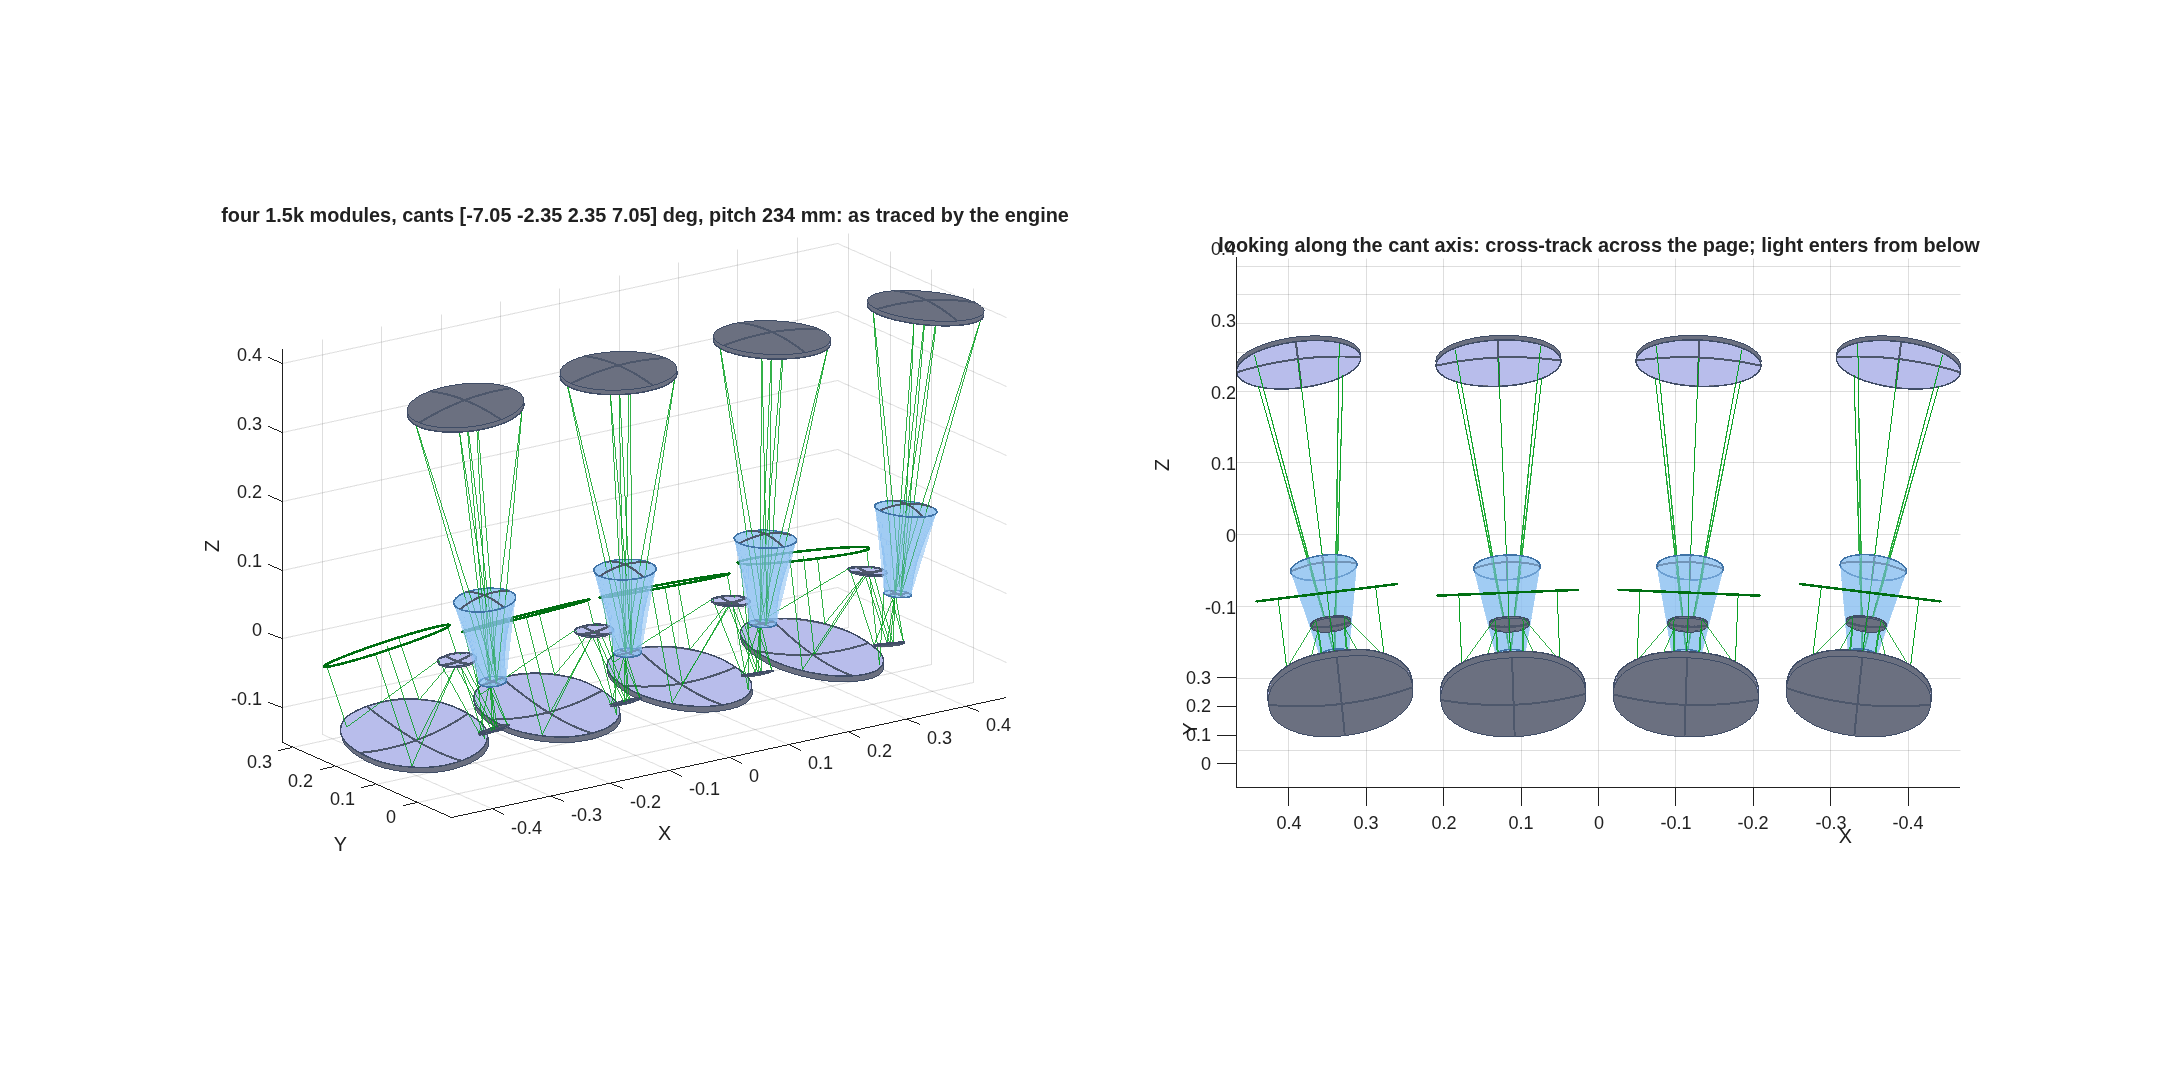
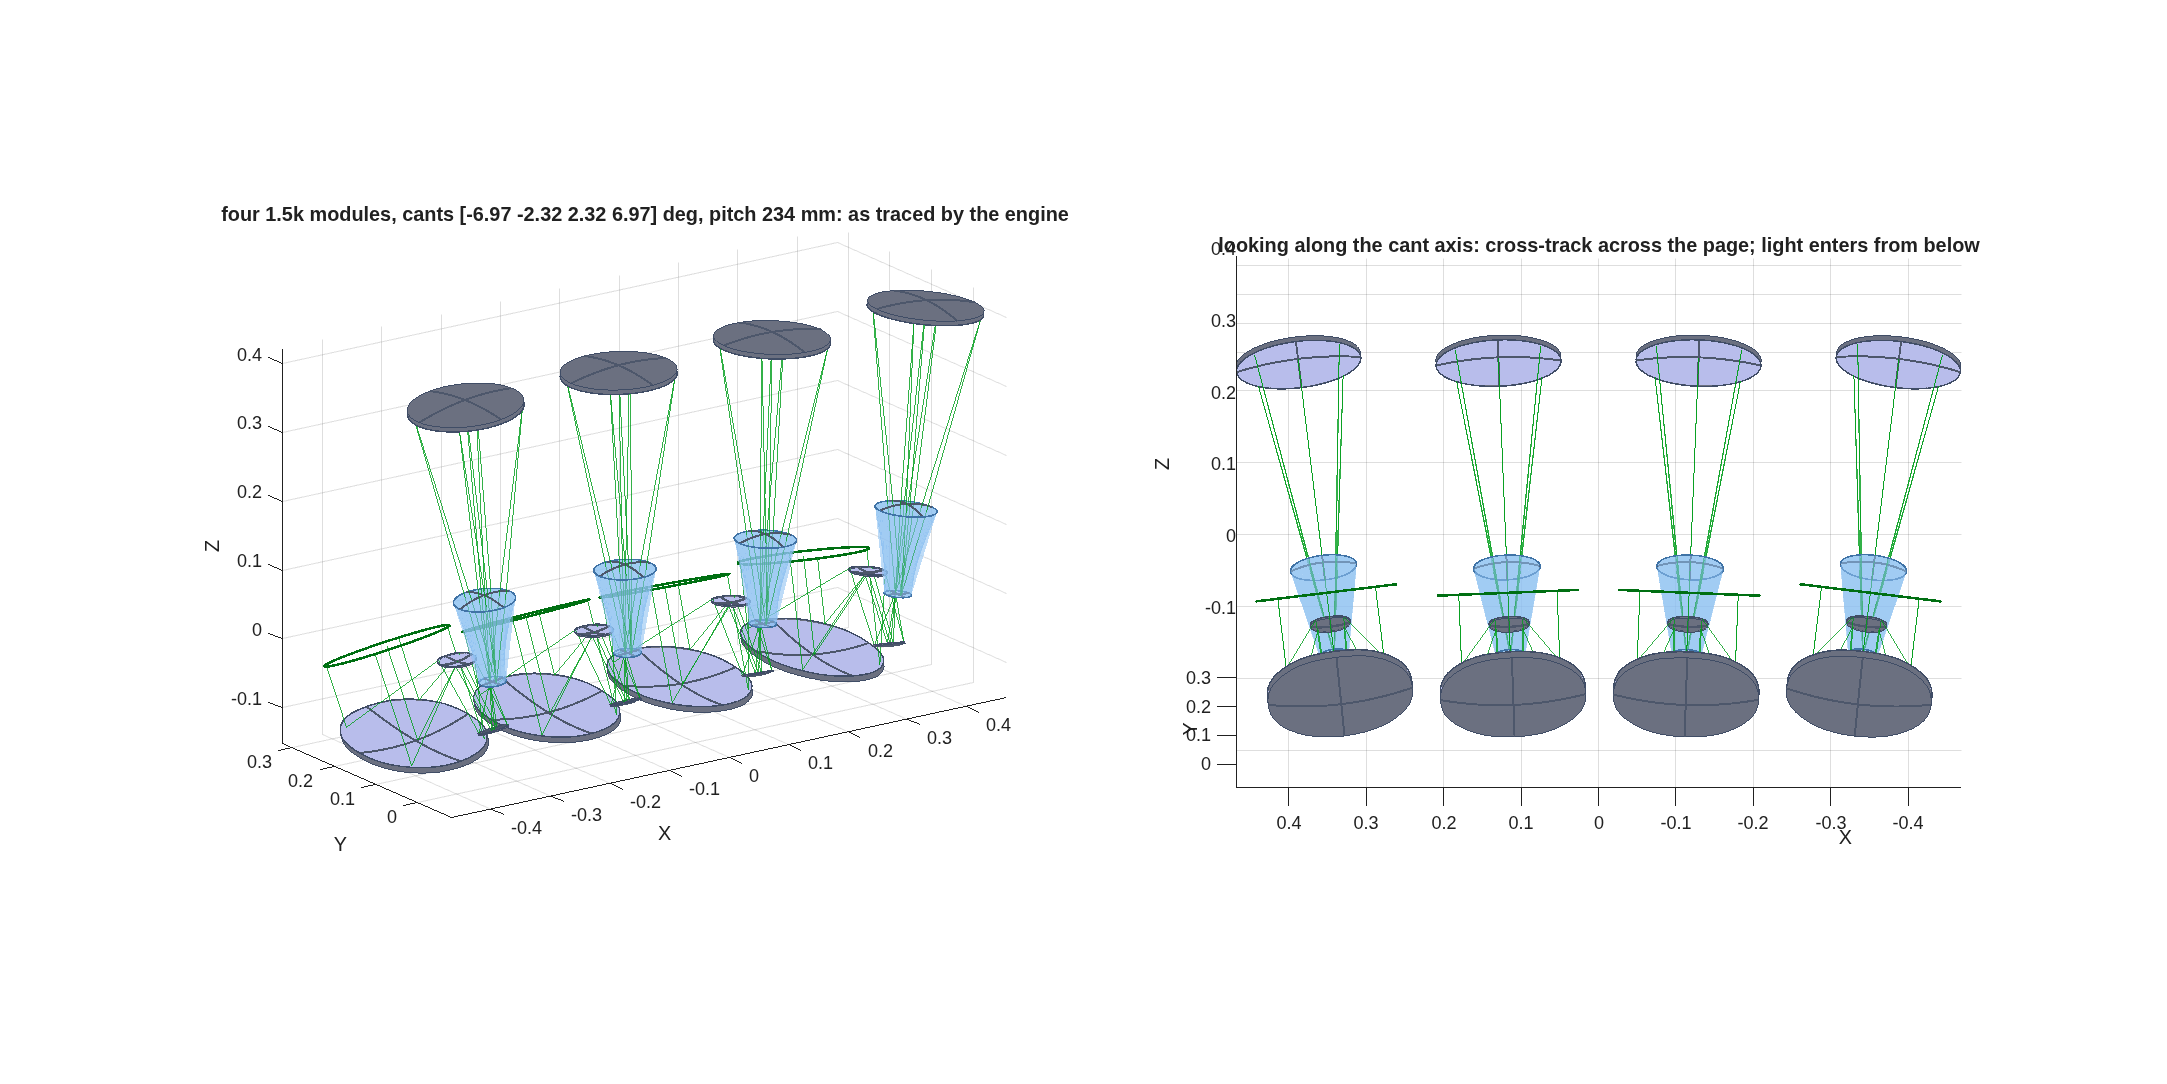
dyson5_block4: cants derived from the admitted strip for a 10-px overlap (abutting at 4.7 deg leaves an 8-px gap); the swath figure -- strips on the ground with the overlaps and the ground scale, the sweep, the four 1500 x 500 focal planes with the engine's slit images per wavelength

Changed region(s): [[0.1237, 0.1827, 0.4947, 0.2131]]

diff --git a/mmacos/challenges/dyson5/dyson5_block4.m b/mmacos/challenges/dyson5/dyson5_block4.m
@@ -14,7 +14,10 @@ function S = dyson5_block4(deck, opts)
 %   no structure, detector, electronics or baffles -- stated on the record.
     arguments
         deck (1,:) char = 'dyson5_t5f_GM_1k5_bAs_e2e.in'
-        opts.cant_deg (1,:) double = [-7.05 -2.35 2.35 7.05]   % each module's cross-track pointing (4 x 4.7 deg strips abutting)
+        opts.cant_deg (1,:) double = []                         % each module's cross-track pointing; [] = four strips abutting with overlap_px of overlap
+        opts.overlap_px (1,1) double = 10                       % pixels of overlap between neighbouring strips when the cants are derived
+        opts.npix (1,1) double = 1500                           % cross-track pixels per module
+        opts.alt_m (1,1) double = 550e3                         % for the ground scale on the swath figure
         opts.pitch_m (1,1) double = NaN
         opts.gap_m (1,1) double = 0.020                         % body-to-body gap between neighbours when the pitch is derived
         opts.margin_ap_m (1,1) double = 0.005                   % aperture margin on a footprint (the clearance gate's)
@@ -34,6 +37,14 @@ function S = dyson5_block4(deck, opts)
     p0 = vec_(txt, 'ChfRayPos');  ap = vec_(txt, 'Aperture');  Dap = ap(1);
     xhat = [1; 0; 0];                                          % the slit / cross-track direction of the e2e deck (the strip's x)
     a = cross(xhat, d);  a = a/norm(a);                        % the cant axis: normal to cross-track and the line of sight
+    % the strip each module admits, from the t5f record of the same deck (admit_half_rad); cants derived so the strips overlap
+    rec = regexprep(deck, '_e2e\.in$', '.mat');  ta = NaN;
+    if isfile(rec), L = load(rec);  if isfield(L, 'S') && isfield(L.S, 'admit_half_rad'), ta = L.S.admit_half_rad*180/pi; end, end
+    assert(~isnan(ta), 'dyson5 block4: no t5f record beside %s (admit_half_rad)', deck);
+    ppd = opts.npix/(2*ta);                                     % pixels per degree across the track
+    if isempty(opts.cant_deg)
+        cp = 2*ta - opts.overlap_px/ppd;  nM0 = 4;  opts.cant_deg = ((1:nM0) - (nM0 + 1)/2)*cp;
+    end
     nM = numel(opts.cant_deg);
     macos.init(opts.model);
     % ---- the module as traced: per-element footprint centres and radii from the engine's hits
@@ -93,18 +104,69 @@ function S = dyson5_block4(deck, opts)
         macos.view_rx('ax', ax2, 'nrings', 1, 'nspokes', 4, 'labels', false, 'title', '', 'view', [az el]);
     end
     for ax = [ax1 ax2], axis(ax, 'equal');  axis(ax, 'tight');  grid(ax, 'on'); end
-    title(ax1, sprintf('four 1.5k modules, cants %s deg, pitch %.0f mm: as traced by the engine', mat2str(opts.cant_deg), pitch*1e3), 'Interpreter', 'none');
+    title(ax1, sprintf('four 1.5k modules, cants %s deg, pitch %.0f mm: as traced by the engine', mat2str(round(opts.cant_deg, 2)), pitch*1e3), 'Interpreter', 'none');
     title(ax2, 'looking along the cant axis: cross-track across the page; light enters from below', 'Interpreter', 'none');
     out = fullfile(here, [opts.tag '_views.png']);  print(f, out, '-dpng', '-r130');  close(f);
     cellfun(@delete, tmp);
+    % ---- the swath: four strips across the track, their overlaps, the ground scale
+    f2 = figure('Visible', 'off', 'Position', [40 40 1400 760], 'Color', 'w');
+    axs = subplot(2, 1, 1, 'Parent', f2);  hold(axs, 'on');  axd = subplot(2, 1, 2, 'Parent', f2);  hold(axd, 'on');
+    cols = lines(nM);  edges = zeros(nM, 2);
+    for k = 1:nM
+        th = opts.cant_deg(k);  edges(k, :) = [th - ta, th + ta];
+        patch(axs, [th-ta th+ta th+ta th-ta], [0 0 1 1] + (k - 1)*0, cols(k, :), 'FaceAlpha', 0.25, 'EdgeColor', cols(k, :), 'LineWidth', 1.2);
+        text(axs, th, 0.5, sprintf('module %d\n%d px\n%+.3f to %+.3f deg', k, opts.npix, th - ta, th + ta), 'HorizontalAlignment', 'center', 'FontSize', 10);
+    end
+    ovl = zeros(1, nM - 1);
+    for k = 1:nM - 1
+        o = edges(k, 2) - edges(k+1, 1);  ovl(k) = o*ppd;
+        patch(axs, [edges(k+1, 1) edges(k, 2) edges(k, 2) edges(k+1, 1)], [0 0 1 1], [0.2 0.2 0.2], 'FaceAlpha', 0.6, 'EdgeColor', 'none');
+        text(axs, (edges(k, 2) + edges(k+1, 1))/2, 1.08, sprintf('%.0f px', ovl(k)), 'HorizontalAlignment', 'center', 'FontSize', 9);
+    end
+    tot = edges(end, 2) - edges(1, 1);  upx = nM*opts.npix - sum(ovl);
+    xlabel(axs, 'cross-track angle (deg)');  set(axs, 'YTick', []);  ylim(axs, [-0.35 1.25]);  xlim(axs, [edges(1, 1) - 0.3, edges(end, 2) + 0.3]);
+    gk = @(th) 2*opts.alt_m*tand(th)/2e3;   % km on the ground from nadir
+    for th = ceil(edges(1,1)):floor(edges(end,2))
+        text(axs, th, -0.18, sprintf('%.0f km', gk(th)), 'HorizontalAlignment', 'center', 'FontSize', 8, 'Color', [0.3 0.3 0.3]);
+    end
+    ylim(axs, [-0.25 1.25]);  axs.YColor = 'none';  axs.Box = 'off';   % (box is the envelope variable)
+    title(axs, {sprintf('the four strips on the ground: %d px each over %.3f deg (the slit admits +-%.3f deg), %.0f px of overlap at each join; along-track offset between strips 0 (the four lines of sight lie in one cross-track plane)', ...
+          opts.npix, 2*ta, ta, mean(ovl)), sprintf('ground distance from nadir at %.0f km altitude (gray); swath %.2f deg = %.0f km, %d unique pixels, %.1f m per pixel at nadir', ...
+          opts.alt_m/1e3, tot, 2*opts.alt_m*tand(tot/2)/1e3, round(upx), 2*opts.alt_m*tand(ta)/opts.npix)}, 'FontSize', 10, 'Interpreter', 'none');
+    % the sweep: one ground line per frame, pushed along the track by the spacecraft's motion
+    annotation(f2, 'arrow', [0.05 0.05], [0.64 0.84], 'Color', [0.2 0.2 0.2], 'LineWidth', 1.5);
+    annotation(f2, 'textbox', [0.003 0.46 0.10 0.16], 'String', {'along-track sweep', '(spacecraft motion);', 'each frame is one', 'ground line'}, ...
+               'EdgeColor', 'none', 'FontSize', 8, 'HorizontalAlignment', 'center', 'VerticalAlignment', 'top');
+    % ---- the focal planes: each module's 1500 x 500 px detector under its strip, the spectral axis from the engine's dispersion
+    RE = L.S.e2e;  im = ceil(numel(RE.xs)/2);  V = RE.V(im, :);  U = RE.U(:, ceil(numel(RE.lams)/2));
+    [~, i380] = min(RE.lams);  [~, i2500] = max(RE.lams);  nsp = 500;
+    vlo = min(V);  vhi = max(V);  sgn = sign(V(i2500) - V(i380));                 % +1: long wavelengths toward +v
+    for k = 1:nM
+        x0 = edges(k, 1);  x1 = edges(k, 2);
+        patch(axd, [x0 x1 x1 x0], [-nsp/2 -nsp/2 nsp/2 nsp/2], cols(k, :), 'FaceAlpha', 0.15, 'EdgeColor', cols(k, :), 'LineWidth', 1.2);
+        for j = 1:numel(RE.lams)         % the engine's centroid rows (the slit's image per wavelength), smile exaggerated by nothing: as scored
+            plot(axd, linspace(x0, x1, numel(RE.xs)), RE.V(:, j) - mean(V)*0, '-', 'Color', cols(k, :)*0.6, 'LineWidth', 0.8);
+        end
+        text(axd, (x0 + x1)/2, 0, sprintf('module %d detector\n%d spatial x %d spectral px', k, opts.npix, nsp), 'HorizontalAlignment', 'center', 'FontSize', 9, 'BackgroundColor', 'w');
+    end
+    text(axd, edges(1, 1), V(i380), sprintf(' %.0f nm', RE.lams(i380)*1e9), 'HorizontalAlignment', 'left', 'VerticalAlignment', 'bottom', 'FontSize', 9);
+    text(axd, edges(1, 1), V(i2500), sprintf(' %.0f nm', RE.lams(i2500)*1e9), 'HorizontalAlignment', 'left', 'VerticalAlignment', 'top', 'FontSize', 9);
+    text(axd, edges(end, 2), V(i380), sprintf('%.0f nm ', RE.lams(i380)*1e9), 'HorizontalAlignment', 'right', 'VerticalAlignment', 'bottom', 'FontSize', 9);
+    text(axd, edges(end, 2), V(i2500), sprintf('%.0f nm ', RE.lams(i2500)*1e9), 'HorizontalAlignment', 'right', 'VerticalAlignment', 'top', 'FontSize', 9);
+    ylabel(axd, 'spectral pixel (v)');  xlabel(axd, 'cross-track angle of the slit image (deg); spatial pixel u runs the other way (the image is inverted)');
+    ylim(axd, [-nsp/2 - 60, nsp/2 + 60]);  xlim(axd, [edges(1, 1) - 0.3, edges(end, 2) + 0.3]);  axd.Box = 'off';
+    title(axd, sprintf('the four focal planes under their strips: the lines are the slit''s image at the seven scored wavelengths (the engine''s centroids, %.2f px/nm); %s', ...
+          abs(V(i2500) - V(i380))/((RE.lams(i2500) - RE.lams(i380))*1e9), tern_(sgn > 0, 'wavelength increases toward +v', 'wavelength increases toward -v')), 'FontSize', 10, 'Interpreter', 'none');
+    out2 = fullfile(here, [opts.tag '_swath.png']);  print(f2, out2, '-dpng', '-r130');  close(f2);
+    S_swath = struct('edges_deg', edges, 'overlap_px', ovl, 'swath_deg', tot, 'unique_px', upx, 'px_per_deg', ppd, 'admit_half_deg', ta, 'fig', out2);
     % ---- the record
     S = struct('deck', deck, 'cant_deg', opts.cant_deg, 'pitch_m', pitch, 'module_x_extent_m', wmod, 'box_m', box(:)', ...
                'volume_L', prod(box)*1e3, 'mass_optics_kg', m_mod*nM, 'mass_module_kg', m_mod, 'mass_mirrors_kg', m_mir, ...
-               'mass_grating_kg', m_gr, 'pairs', pair, 'footprint_r_m', fr, 'names', {names}, 'fig', out);
+               'mass_grating_kg', m_gr, 'pairs', pair, 'footprint_r_m', fr, 'names', {names}, 'fig', out, 'swath', S_swath);
     if ~opts.quiet
         fid = fopen(fullfile(here, [opts.tag '.txt']), 'w');  pr = @(varargin) dp_(fid, varargin{:});
         pr('dyson5 block4 -- four 1.5k modules across the 6000-pixel swath (%s)\n', datestr(now, 'yyyy-mm-dd HH:MM'));
-        pr('CONVENTIONS: module = %s as traced; cants %s deg about the axis normal to cross-track and the line of sight; modules side by side\n', deck, mat2str(opts.cant_deg));
+        pr('CONVENTIONS: module = %s as traced; cants %s deg about the axis normal to cross-track and the line of sight; modules side by side\n', deck, mat2str(round(opts.cant_deg, 3)));
         pr('  along the cross-track (slit) axis at pitch %.1f mm (the smallest 5 mm step with every margin >= the %.0f mm gap; module extent %.1f mm);\n  bodies = engine surface hits + %.0f mm aperture + %.0f mm mount; sky beams %.0f mm wide, fanning by the strip''s +-%.2f deg;\n', ...
            pitch*1e3, opts.gap_m*1e3, wmod*1e3, opts.margin_ap_m*1e3, opts.margin_mount_m*1e3, Dap*1e3, half_strip*180/pi);
         pr('  mass = OPTICS ONLY: block %.1f kg (dyson5_size.txt row D), mirrors and grating as %.0f mm blanks (Zerodur %d, silica %d kg/m3); no structure, detector, electronics, baffles.\n\n', ...
@@ -116,7 +178,10 @@ function S = dyson5_block4(deck, opts)
         pr('CONFLICTS (module vs module, m; negative = conflict):\n');
         pr('  worst body-body margin %+.3f m, worst body-vs-sky-beam margin %+.3f m\n', min(pair(:, 3)), min(pair(:, 4)));
         for r = 1:size(pair, 1), pr('    %d vs %d: body-body %+.3f  body-in-beam %+.3f\n', pair(r, :)); end
-        pr('FIGURE %s\n', out);
+        pr('SWATH: each module admits +-%.3f deg (%d px, %.1f px/deg); cants chosen for %.0f px of overlap; strip edges (deg):\n', ta, opts.npix, ppd, opts.overlap_px);
+        for k = 1:nM, pr('    module %d  %+.3f .. %+.3f\n', k, edges(k, :)); end
+        pr('  swath %.3f deg = %.1f km at %.0f km; %d unique pixels; along-track offset between strips 0 (one cross-track plane of lines of sight)\n', tot, 2*opts.alt_m*tand(tot/2)/1e3, opts.alt_m/1e3, round(upx));
+        pr('FIGURES %s, %s\n', out, out2);
         fclose(fid);  save(fullfile(here, [opts.tag '.mat']), 'S');
     end
 end
@@ -178,5 +243,6 @@ function [az, el] = view_along_(a)
     el = asind(a(3));  az = atan2d(a(1), -a(2));
 end
 
+function t = tern_(c, a, b), if c, t = a; else, t = b; end, end
 function v = vec_(t, key), m = regexp(t, ['(?m)^\s*' key '=\s*([^\n]*)'], 'tokens', 'once');  v = sscanf(strrep(m{1}, 'D', 'E'), '%f'); end
 function dp_(fid, varargin), fprintf(fid, varargin{:});  fprintf(varargin{:}); end
